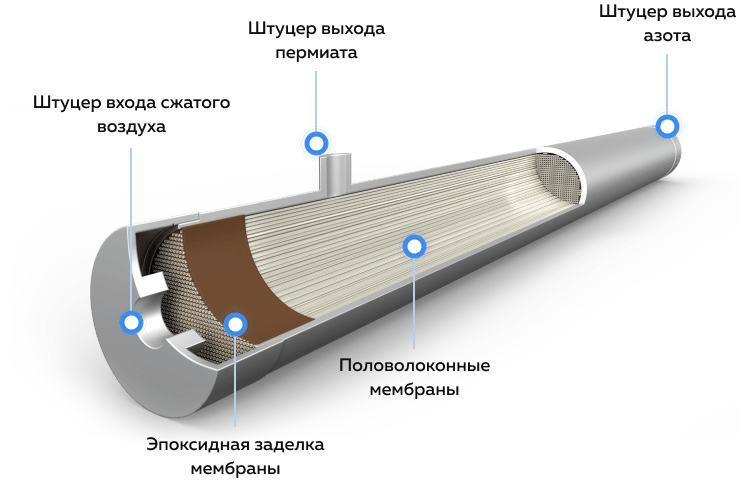
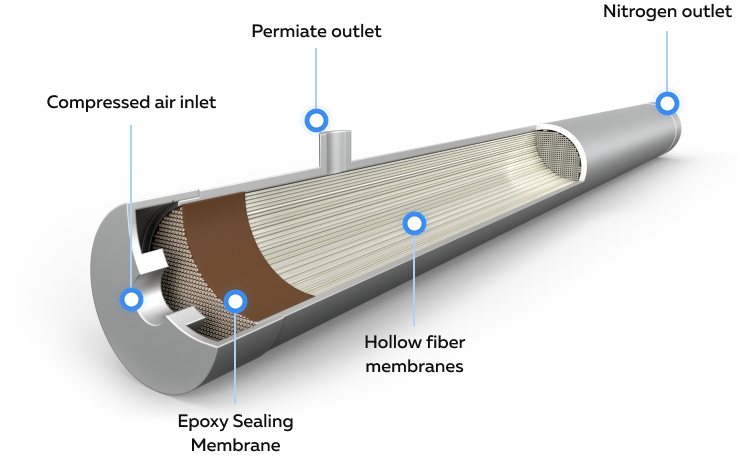
енг

diff --git a/products/azot-membrana/index.php b/products/azot-membrana/index.php
@@ -64,7 +64,7 @@ $APPLICATION->SetTitle("Membrane nitrogen stations");
 				</div>
 			</div>
 			<div class="grid-7 grid-12_m">
-				<img data-lazy="<?=SITE_TEMPLATE_PATH?>/img/lp/membrana/module.png?v=1" alt="" class="membran-module__sheme">
+				<img data-lazy="<?=SITE_TEMPLATE_PATH?>/img/lp/membrana/module.png?v=2" alt="" class="membran-module__sheme">
 			</div>
 		</div>
 	</div>
